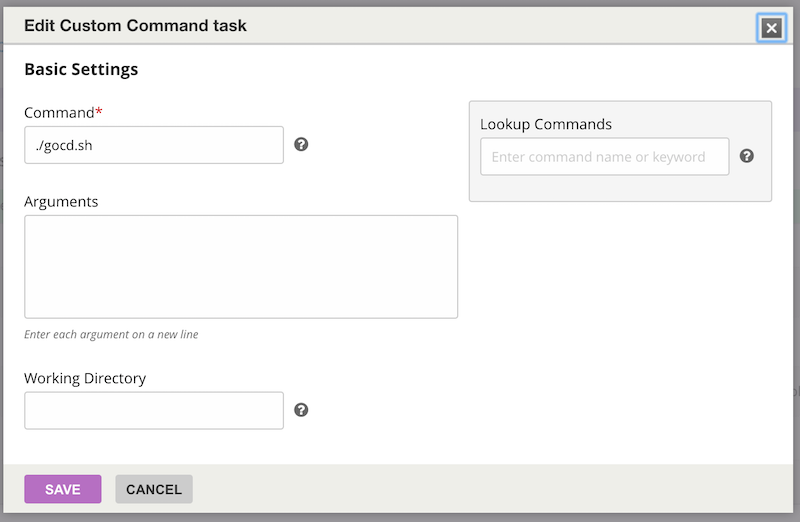
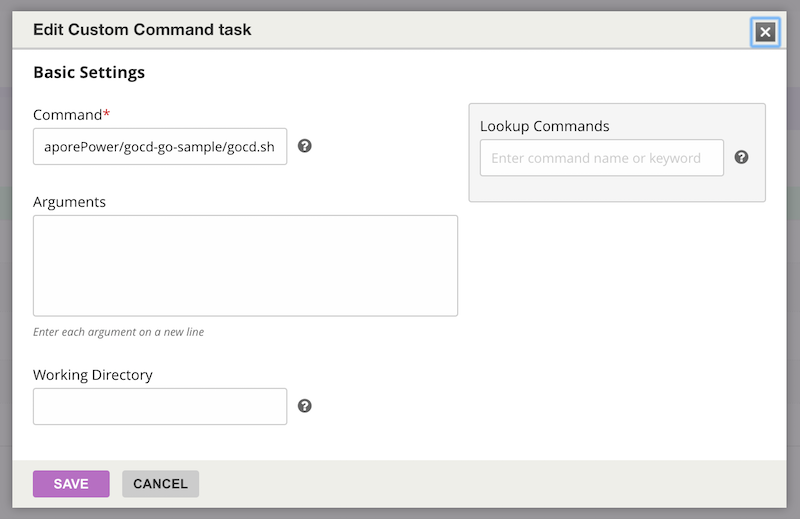
Omit the copy step as the shell script is actually run in the workspace folder.

Changed region(s): [[0.0, 0.0, 1.0, 0.9865]]

diff --git a/README.md b/README.md
@@ -8,15 +8,13 @@
 	
 	![Material setting](images/material-git-setting.png)
 
-2. In the `Build` stage, add a `Task` to copy `gocd.sh` to the workspace.
+2. In the `Build` stage, add a `Custom Command Task` to run `gocd.sh`. Put the full path of the checked out git repository:
 
-	![Copy shell script](images/copy-gocd-sh.png)
+  Example: `src/github.com/SingaporePower/gocd-go-sample/gocd.sh`
 
-3. Next `Task` should run `./gocd.sh`
+	![Copy shell script](images/run-gocd-sh.png)
 
-	![Run shell script](images/run-gocd-sh.png)
-	
-4. Next run should look like this:
+5. Next run should look like this:
 
 	![Result](images/result.png)	
 
